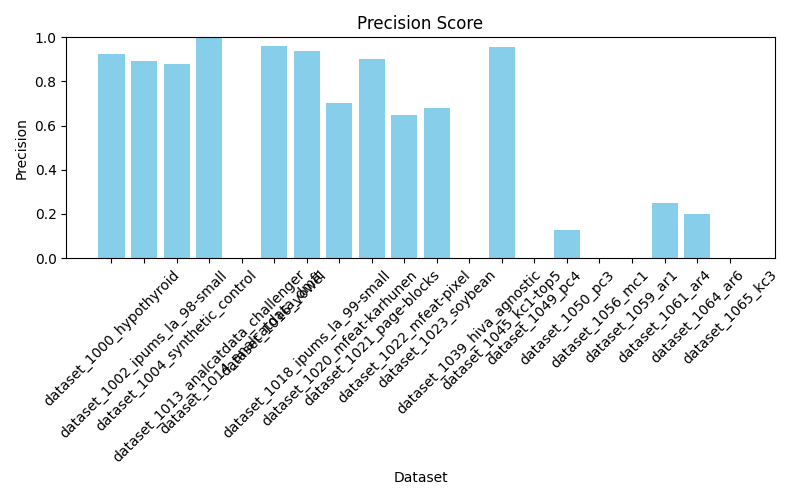
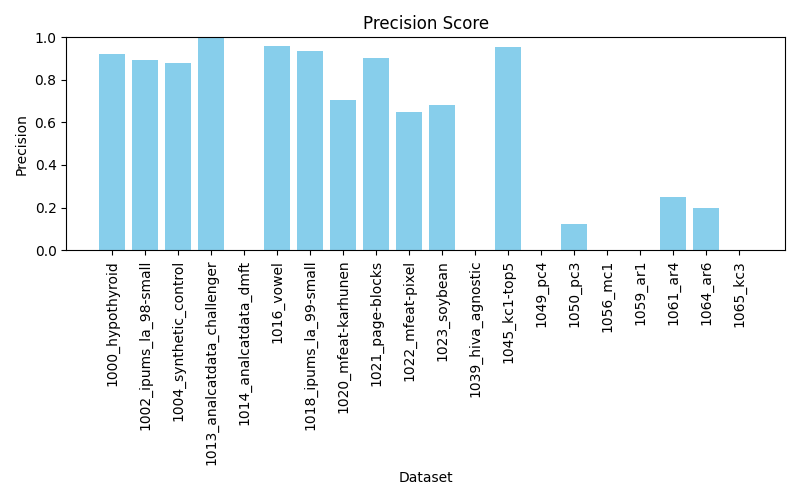
Refactor plot_metric function to enhance metric parameter description and improve x-axis label rotation

diff --git a/src/utils/visualization.py b/src/utils/visualization.py
@@ -8,12 +8,14 @@ def plot_metric(data, metric, show=True, save_path=None):
 
     Parameters:
         data (pd.DataFrame or convertible): Data containing 'name' and the specified metric column.
-        metric (str): The metric to plot (e.g., 'f1', 'accuracy', 'roc_auc').
+        metric (str): The metric to plot ('accuracy', 'precision', 'recall', 'f1' or 'roc_auc').
         show (bool): If True, calls plt.show() to display the plot.
         save_path (str or None): If provided, saves the plot to this filepath.
     """
     if not isinstance(data, pd.DataFrame):
         data = pd.DataFrame(data)
+
+    data["name"] = data["name"].str.replace("dataset_", "")
 
     fig, ax = plt.subplots(figsize=(8, 5))
     ax.bar(data["name"], data[metric], color="skyblue")
@@ -21,7 +23,7 @@ def plot_metric(data, metric, show=True, save_path=None):
     ax.set_xlabel("Dataset")
     ax.set_ylabel(metric.capitalize())
     ax.set_ylim(0, 1)
-    ax.tick_params(axis="x", rotation=45)
+    ax.tick_params(axis="x", rotation=90)
     plt.tight_layout()
 
     if save_path:
